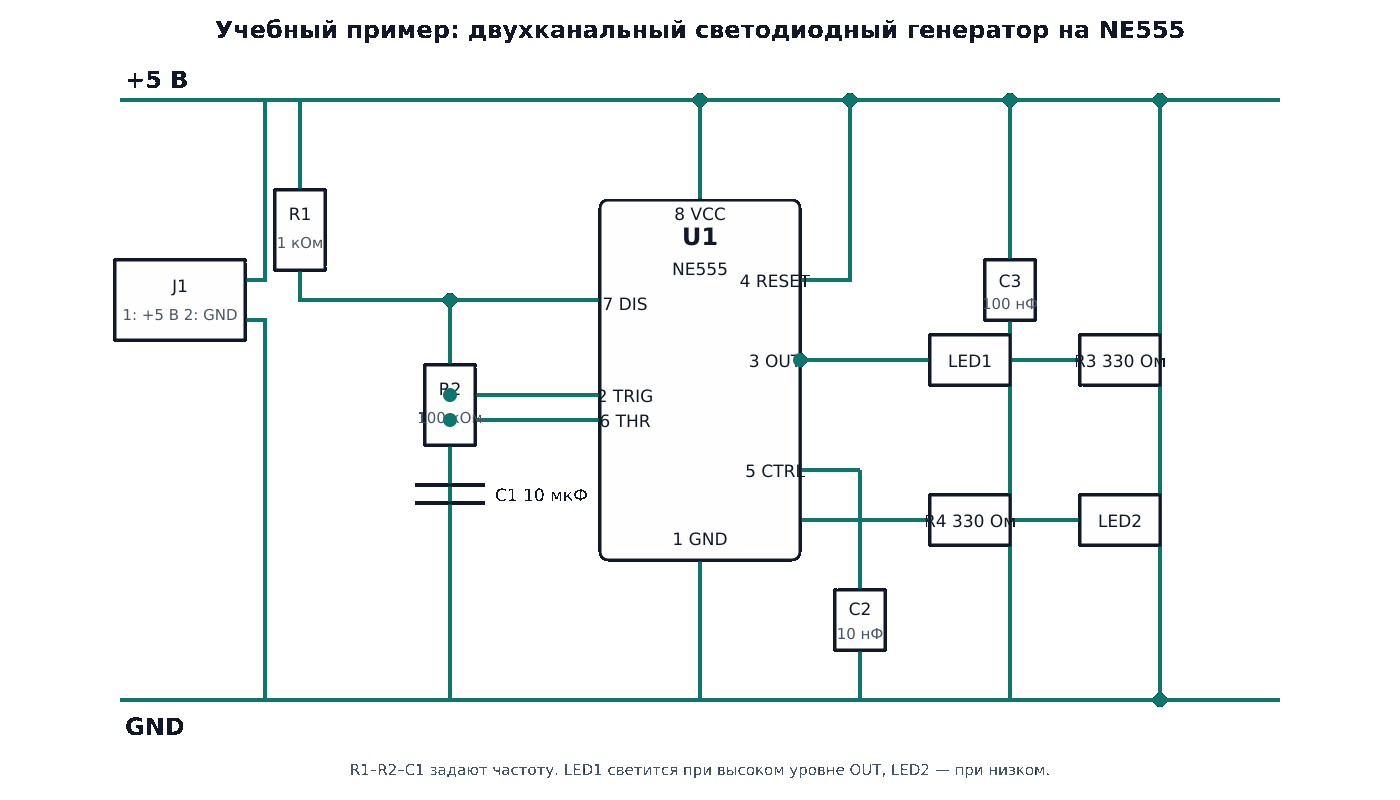
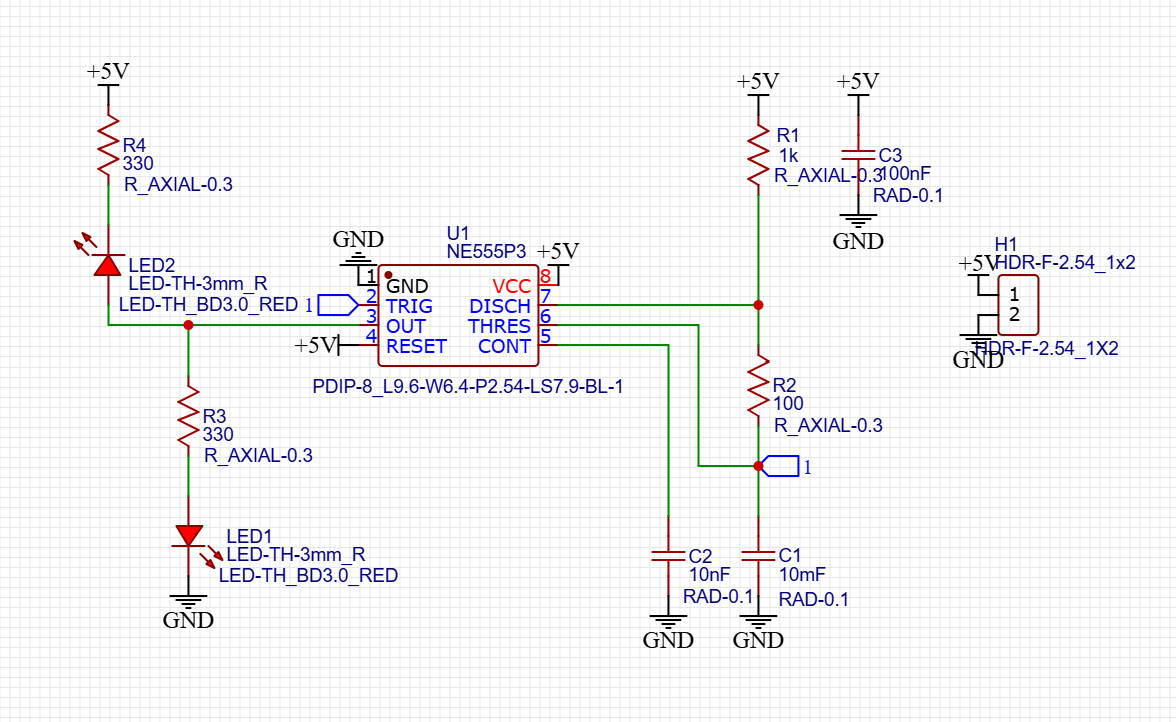
изменено ПР10 МПС 4 курс

Changed region(s): [[0.0612, 0.0914, 0.949, 0.9446], [0.1531, 0.0, 0.8571, 0.0609], [0.2449, 0.9446, 0.7347, 0.9751]]

diff --git a/МПС/4 курс/Практические задания/Практическая_работа_10/Практическая_работа_10_EasyEDA.md b/МПС/4 курс/Практические задания/Практическая_работа_10/Практическая_работа_10_EasyEDA.md
@@ -194,7 +194,7 @@ $$
 
 ![Пример компоновки печатной платы](images/05_pcb_layout.png)
 
-*Рисунок 5 — учебный пример компоновки платы размером 60 × 40 мм.*
+*Рисунок 5 — учебный пример компоновки платы размером 35 × 25 мм.*
 
 ### Шаг 7. Трассировка
 
